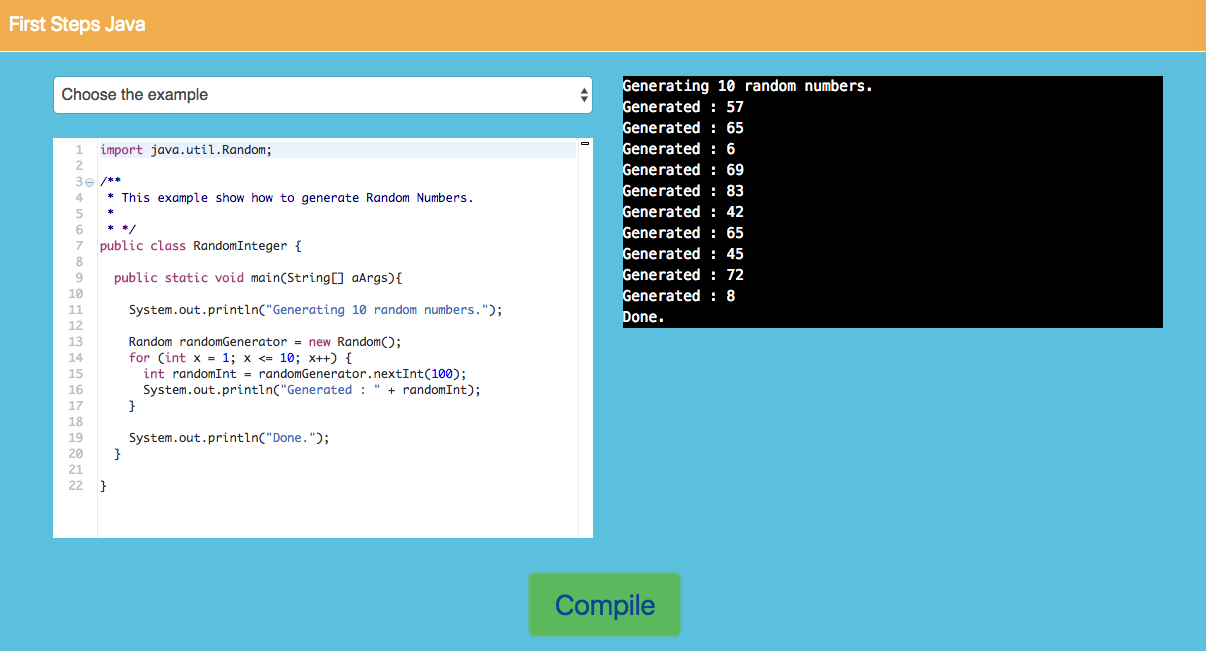
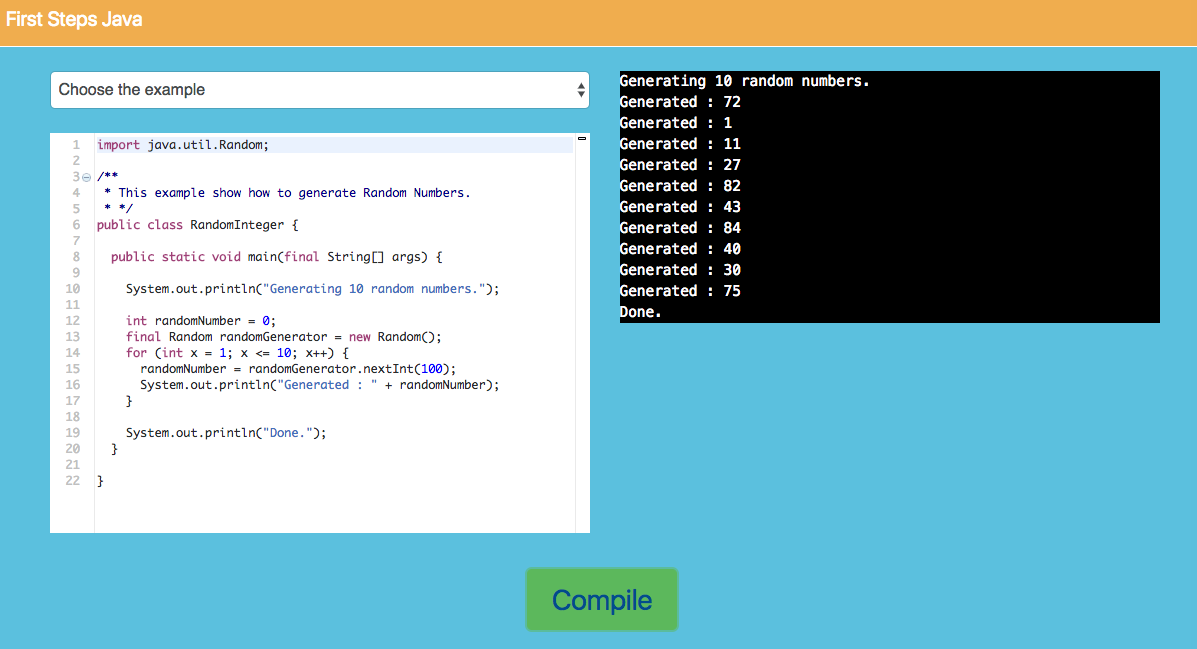
Minor change

Changed region(s): [[0.0, 0.0, 1.0, 0.7704], [0.4327, 0.8629, 0.5873, 0.9861], [0.0309, 0.8012, 0.4946, 0.832]]

diff --git a/src/main/resources/public/examples/RandomInteger.java b/src/main/resources/public/examples/RandomInteger.java
@@ -2,18 +2,18 @@ import java.util.Random;
 
 /**
  * This example show how to generate Random Numbers.
- *
  * */
 public class RandomInteger {
   
-  public static void main(String[] aArgs){
+  public static void main(final String[] args) {
 
     System.out.println("Generating 10 random numbers.");
 
-    Random randomGenerator = new Random();
+    int randomNumber = 0;
+    final Random randomGenerator = new Random();
     for (int x = 1; x <= 10; x++) {
-      int randomInt = randomGenerator.nextInt(100);
-      System.out.println("Generated : " + randomInt);
+      randomNumber = randomGenerator.nextInt(100);
+      System.out.println("Generated : " + randomNumber);
     }
 
     System.out.println("Done.");
